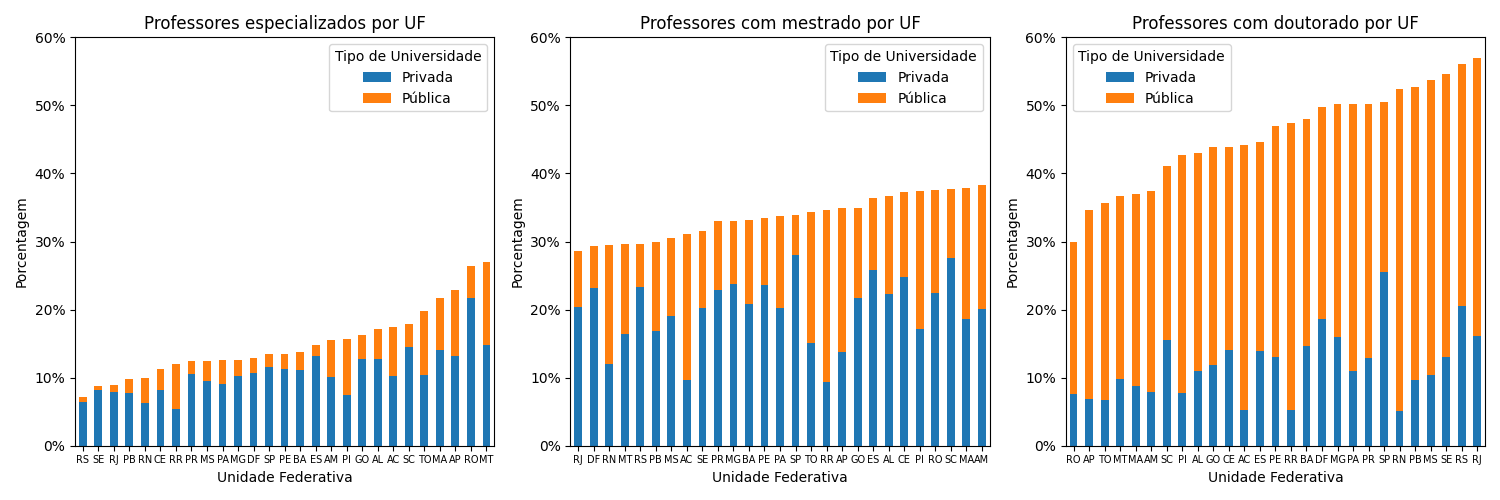
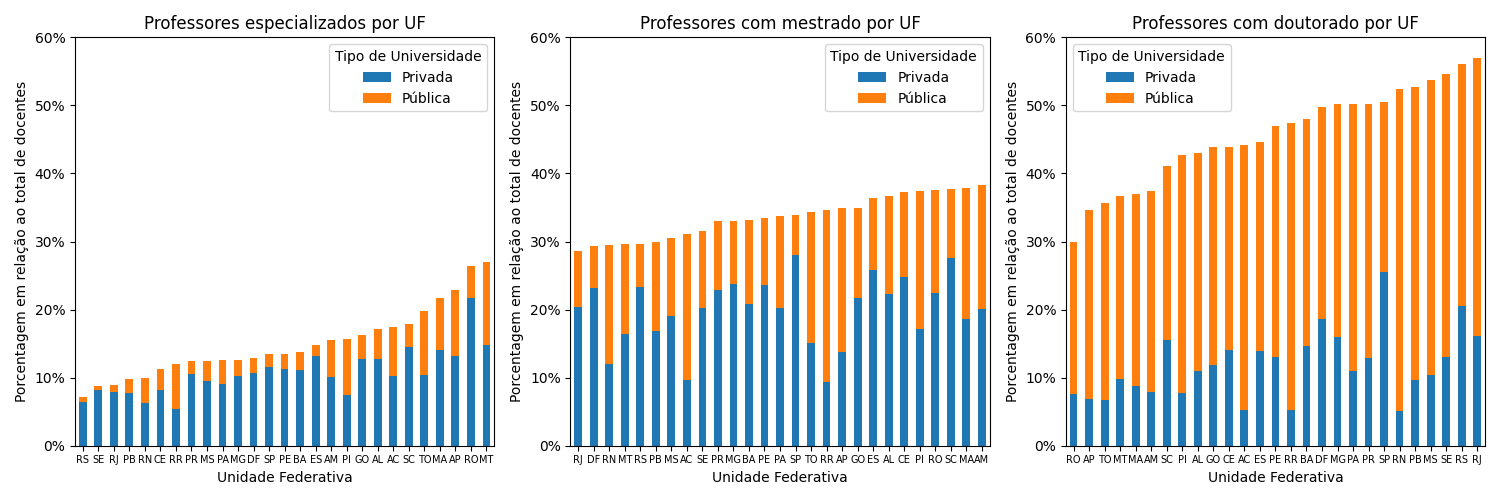
unittests arrumados

diff --git a/unittests/unittest_cleaning.py b/unittests/unittest_cleaning.py
@@ -1,0 +1,61 @@
+import sys
+import os
+project_root = os.path.dirname(os.path.dirname(__file__)) 
+sys.path.append(project_root)
+
+from functions.database.analyzing_functions import *
+from functions.database.cleaning_functions import *
+from functions.plotting.plotting import *
+import unittest
+import pandas as pd
+import matplotlib.pyplot as plt
+
+class Test_utils_cleaning(unittest.TestCase):
+    
+    def test_removing_list_columns(self):
+        # Teste retirando uma lista de colunas
+        data = pd.DataFrame({"RJ": [1, 2, 3], "SP": [4, 5, 6], "RS":[7, 8, 9], "SC":[10, 11, 12]})
+        expected_output = pd.DataFrame({"RJ": [1, 2, 3]})
+        pd.testing.assert_frame_equal(removing_list_columns(data, ["SP", "RS", "SC"]), expected_output)
+        
+        # Teste retirando uma lista de colunas que não existe
+        data = pd.DataFrame({"RJ": [1, 2, 3], "SP": [4, 5, 6], "RS":[7, 8, 9], "SC":[10, 11, 12]})
+        expected_output = "O nome da coluna não está no dataframe"
+        self.assertEqual(removing_list_columns(data, ["DF", "RS", "SC"]), expected_output)
+
+        # Teste retirando uma lista de colunas que não é uma lista
+        data = pd.DataFrame({"RJ": [1, 2, 3], "SP": [4, 5, 6], "RS":[7, 8, 9], "SC":[10, 11, 12]})
+        expected_output = "Você não colocou uma lista de strings"
+        self.assertEqual(removing_list_columns(data, "DF"), expected_output)
+
+    def test_removing_columns_from_to(self):
+        # Teste retirando as colunas de 1 a 3
+        data = pd.DataFrame({"RJ": [1, 2, 3], "SP": [4, 5, 6], "RS":[7, 8, 9], "SC":[10, 11, 12]})
+        expected_output = pd.DataFrame({"SC":[10, 11, 12]})
+        pd.testing.assert_frame_equal(removing_columns_from_to(data, "RJ", "RS"), expected_output)
+        
+        # Test case retirando as colunas de 4 a 2
+        data = pd.DataFrame({"RJ": [1, 2, 3], "SP": [4, 5, 6], "RS":[7, 8, 9], "SC":[10, 11, 12]})
+        expected_output = pd.DataFrame({"RJ": [1, 2, 3]})
+        pd.testing.assert_frame_equal(removing_columns_from_to(data, "SC", "SP"), expected_output)
+
+        # Test case com nome de coluna que não existe
+        data = pd.DataFrame({"RJ": [1, 2, 3], "SP": [4, 5, 6], "RS":[7, 8, 9], "SC":[10, 11, 12]})
+        expected_output = "A coluna informada não existe no dataframe"
+        self.assertEqual(removing_columns_from_to(data, "DF", "SC"), expected_output) 
+
+        # Teste case com a coluna não sendo string
+        data = pd.DataFrame({"RJ": [1, 2, 3], "SP": [4, 5, 6], "RS":[7, 8, 9], "SC":[10, 11, 12]})
+        expected_output = "O nome da coluna informada não é uma string"
+        self.assertEqual(removing_columns_from_to(data, 1, "SC"), expected_output)
+
+    def test_type_of_university(self):
+        # Teste com um dataframe
+        data = pd.DataFrame({"Universidade": ["UFRJ", "FGV", "PUC"], "TP_CATEGORIA_ADMINISTRATIVA": [1, 5, 6]})
+        expected_output = pd.DataFrame({'Universidade': {0: 'UFRJ', 1: 'FGV', 2: 'PUC'}, 'TP_CATEGORIA_ADMINISTRATIVA': {0: 1, 1: 5, 2: 6}, 'Tipo de Universidade': {0: 'Pública', 1: 'Privada', 2: 'Privada'}})
+        pd.testing.assert_frame_equal(type_of_university(data), expected_output)
+
+        # Teste com uma coluna que não existe
+        data = pd.DataFrame({"Universidade": ["UFRJ", "FGV", "PUC"], "TP_CATEGORIA_ADMINISTRATIVA": [1, 5, 6]})
+        expected_output = "O nome da coluna não existe ou não é uma string"
+        self.assertEqual(type_of_university(data, "TP"), expected_output)

diff --git a/unittests/unittest_analyzing.py b/unittests/unittest_analyzing.py
@@ -10,55 +10,6 @@ import unittest
 import pandas as pd
 import matplotlib.pyplot as plt
 
-class Test_utils_cleaning(unittest.TestCase):
-    
-    def test_removing_list_columns(self):
-        # Teste retirando uma lista de colunas
-        data = pd.DataFrame({"RJ": [1, 2, 3], "SP": [4, 5, 6], "RS":[7, 8, 9], "SC":[10, 11, 12]})
-        expected_output = pd.DataFrame({"RJ": [1, 2, 3]})
-        pd.testing.assert_frame_equal(removing_list_columns(data, ["SP", "RS", "SC"]), expected_output)
-        
-        # Teste retirando uma lista de colunas que não existe
-        data = pd.DataFrame({"RJ": [1, 2, 3], "SP": [4, 5, 6], "RS":[7, 8, 9], "SC":[10, 11, 12]})
-        expected_output = "O nome da coluna não está no dataframe"
-        self.assertEqual(removing_list_columns(data, ["DF", "RS", "SC"]), expected_output)
-
-        # Teste retirando uma lista de colunas que não é uma lista
-        data = pd.DataFrame({"RJ": [1, 2, 3], "SP": [4, 5, 6], "RS":[7, 8, 9], "SC":[10, 11, 12]})
-        expected_output = "Você não colocou uma lista de strings"
-        self.assertEqual(removing_list_columns(data, "DF"), expected_output)
-
-    def test_removing_columns_from_to(self):
-        # Teste retirando as colunas de 1 a 3
-        data = pd.DataFrame({"RJ": [1, 2, 3], "SP": [4, 5, 6], "RS":[7, 8, 9], "SC":[10, 11, 12]})
-        expected_output = pd.DataFrame({"SC":[10, 11, 12]})
-        pd.testing.assert_frame_equal(removing_columns_from_to(data, "RJ", "RS"), expected_output)
-        
-        # Test case retirando as colunas de 4 a 2
-        data = pd.DataFrame({"RJ": [1, 2, 3], "SP": [4, 5, 6], "RS":[7, 8, 9], "SC":[10, 11, 12]})
-        expected_output = pd.DataFrame({"RJ": [1, 2, 3]})
-        pd.testing.assert_frame_equal(removing_columns_from_to(data, "SC", "SP"), expected_output)
-
-        # Test case com nome de coluna que não existe
-        data = pd.DataFrame({"RJ": [1, 2, 3], "SP": [4, 5, 6], "RS":[7, 8, 9], "SC":[10, 11, 12]})
-        expected_output = "A coluna informada não existe no dataframe"
-        self.assertEqual(removing_columns_from_to(data, "DF", "SC"), expected_output) 
-
-        # Teste case com a coluna não sendo string
-        data = pd.DataFrame({"RJ": [1, 2, 3], "SP": [4, 5, 6], "RS":[7, 8, 9], "SC":[10, 11, 12]})
-        expected_output = "O nome da coluna informada não é uma string"
-        self.assertEqual(removing_columns_from_to(data, 1, "SC"), expected_output)
-
-    def test_type_of_university(self):
-        # Teste com um dataframe
-        data = pd.DataFrame({"Universidade": ["UFRJ", "FGV", "PUC"], "TP_CATEGORIA_ADMINISTRATIVA": [1, 5, 6]})
-        expected_output = pd.DataFrame({'Universidade': {0: 'UFRJ', 1: 'FGV', 2: 'PUC'}, 'TP_CATEGORIA_ADMINISTRATIVA': {0: 1, 1: 5, 2: 6}, 'Tipo de Universidade': {0: 'Pública', 1: 'Privada', 2: 'Privada'}})
-        pd.testing.assert_frame_equal(type_of_university(data), expected_output)
-
-        # Teste com uma coluna que não existe
-        data = pd.DataFrame({"Universidade": ["UFRJ", "FGV", "PUC"], "TP_CATEGORIA_ADMINISTRATIVA": [1, 5, 6]})
-        expected_output = "O nome da coluna não existe ou não é uma string"
-        self.assertEqual(type_of_university(data, "TP"), expected_output)
 
 class Test_utils_analyzing(unittest.TestCase):
     def test_cria_porcentagem(self):

diff --git a/functions/database/cleaning_functions.py b/functions/database/cleaning_functions.py
@@ -6,7 +6,6 @@ import doctest
 from geopandas import GeoDataFrame
 import geopandas as gpd
 
-
 def ler_csv(caminho_csv) -> pd.DataFrame: 
     """Recebe um arquivo csv e retona um dataframe
 
@@ -56,9 +55,6 @@ def criar_geometria_brasil(caminho_arq, layer_arq) -> GeoDataFrame:
         return "Arquivo não encontrado ou input != string"
     else:
         return geometria_brasil
-
-
-
 
 def removing_list_columns(dataframe: pd.DataFrame, lista: list) -> pd.DataFrame:
     """Essa função serve para remover uma lista de colunas de um dataframe
@@ -163,8 +159,6 @@ def removing_columns_from_to(dataframe: pd.DataFrame, start_col: str, end_col: s
     else:
         return dataframe
 
-
-# Dizendo se é pública ou privada
 def type_of_university(dataframe: pd.DataFrame, column: str = "TP_CATEGORIA_ADMINISTRATIVA", nome_coluna_nova: str = "Tipo de Universidade") -> pd.DataFrame:
     """ Define o tipo de universidade entre pública e privada com base num dicionário feito pelo MEC, que vai de 1 à 9, sendo de 1 a 3 para escolas públicas e de 4 até 9 para escolas privadas
 

diff --git a/functions/database/tratamento_base.py b/functions/database/tratamento_base.py
@@ -59,7 +59,6 @@ def agrupamento_de_dados(df, coluna_base, coluna_valores) -> DataFrame:
     else:
         return df_para_plot
 
-
 def merge_bases(df1, df2, coluna) -> GeoDataFrame:
     """Realiza o merge de duas bases com base na coluna especificada.
 
@@ -89,7 +88,6 @@ def merge_bases(df1, df2, coluna) -> GeoDataFrame:
         return "A coluna especificada não existe"
     else:
         return dataframe_plot
-
 
 def tratar_base() -> GeoDataFrame:
     '''Une as funções de tratamento de base para retornar o dataframe final

diff --git a/functions/plotting/plotting.py b/functions/plotting/plotting.py
@@ -45,7 +45,7 @@ def formata_cada_plot(dataframe: pd.DataFrame, title: str, numberplot: int, axis
 
         # Colocando os nomes nos eixos
         axis[numberplot].set_xlabel("Unidade Federativa")
-        axis[numberplot].set_ylabel("Porcentagem")
+        axis[numberplot].set_ylabel("Porcentagem em relação ao total de docentes")
 
     except ValueError:
         return "O título não é uma string"

diff --git a/functions/plotting/plot_guilherme.py b/functions/plotting/plot_guilherme.py
@@ -1,6 +1,7 @@
 '''Módulo que pega a base tratada e plota a visualização desejada
 '''
 
+
 import sys
 sys.path.append("../database")
 import geopandas as gpd
@@ -45,7 +46,7 @@ def plotar_gráfico() -> None:
 
     customização_plot()
 
-    plt.savefig("../../graficos/plot_mapa.png")
+    plt.savefig("../graficos/plot_mapa.png")
 
     plt.show()  # Mostrar o gráfico uma única vez
 

diff --git a/functions/database/analyzing_functions.py b/functions/database/analyzing_functions.py
@@ -45,8 +45,6 @@ def cria_porcentagem(dataframe: pd.DataFrame, nome_col: str, num_doc_esp: str, t
     return dataframe
 
 
-
-
 def cria_base_ordem_crescente(dataframe : pd.DataFrame, index_to_unstack: str ,col_porcentagem: str):
     """ Função que ordena os dados em ordem crescente, por UF, da menor soma de porcentagem até a maior
 
